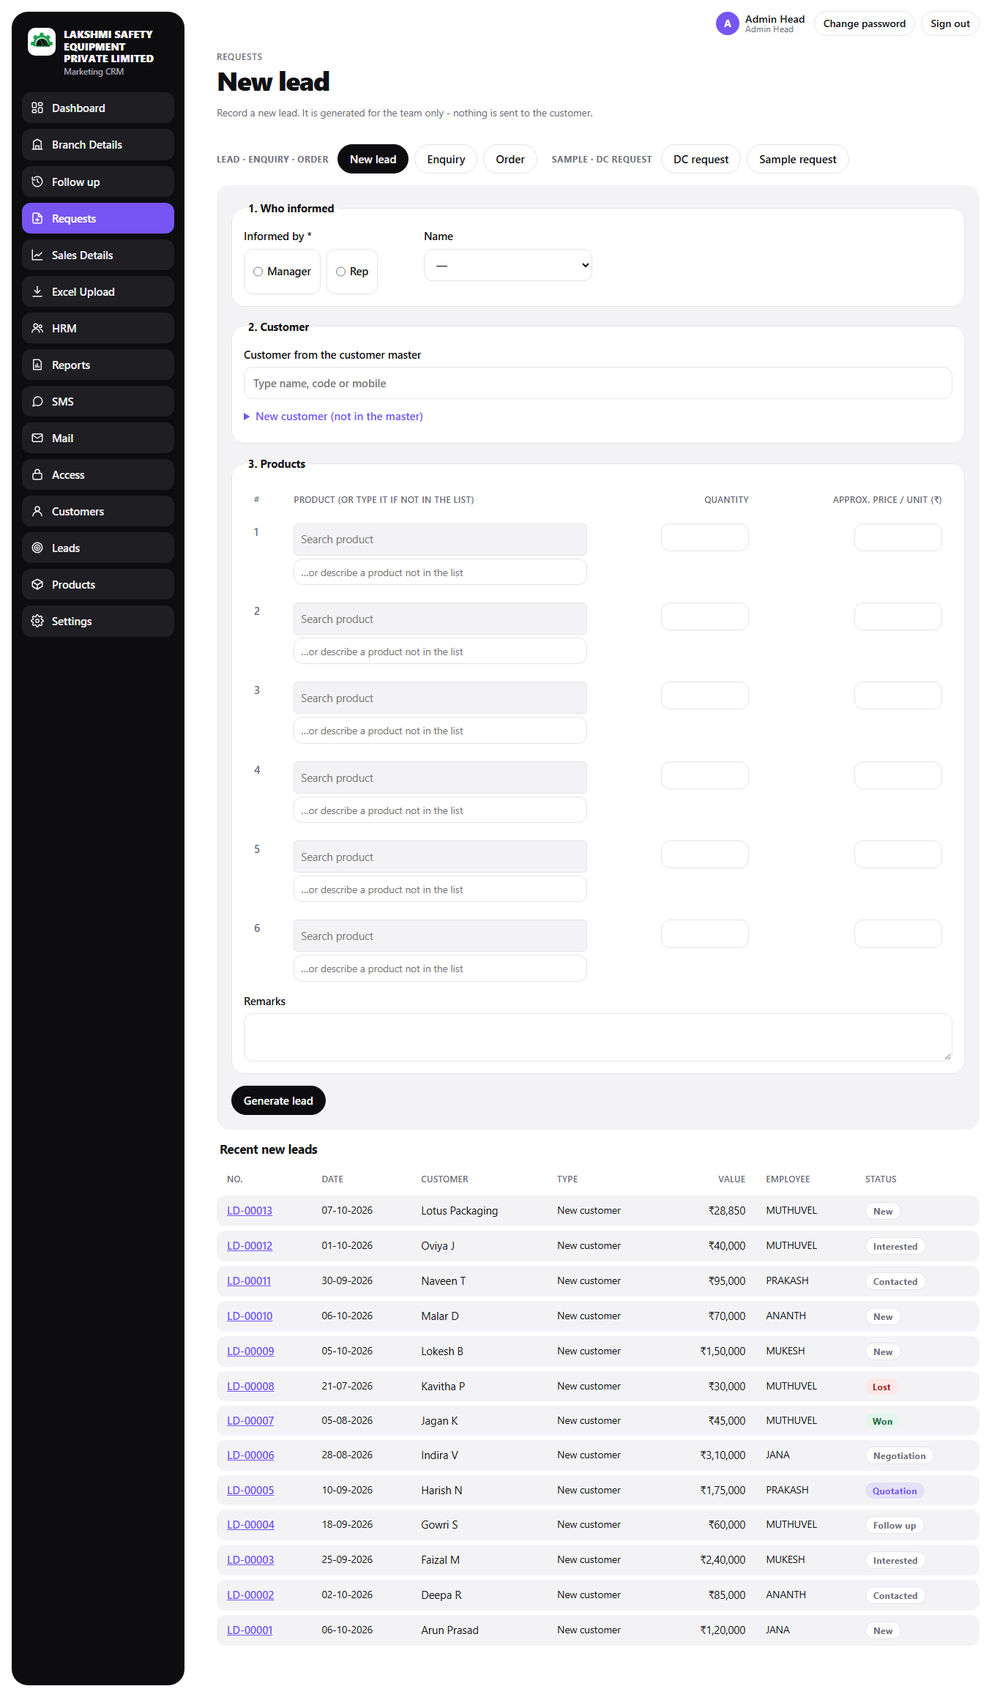
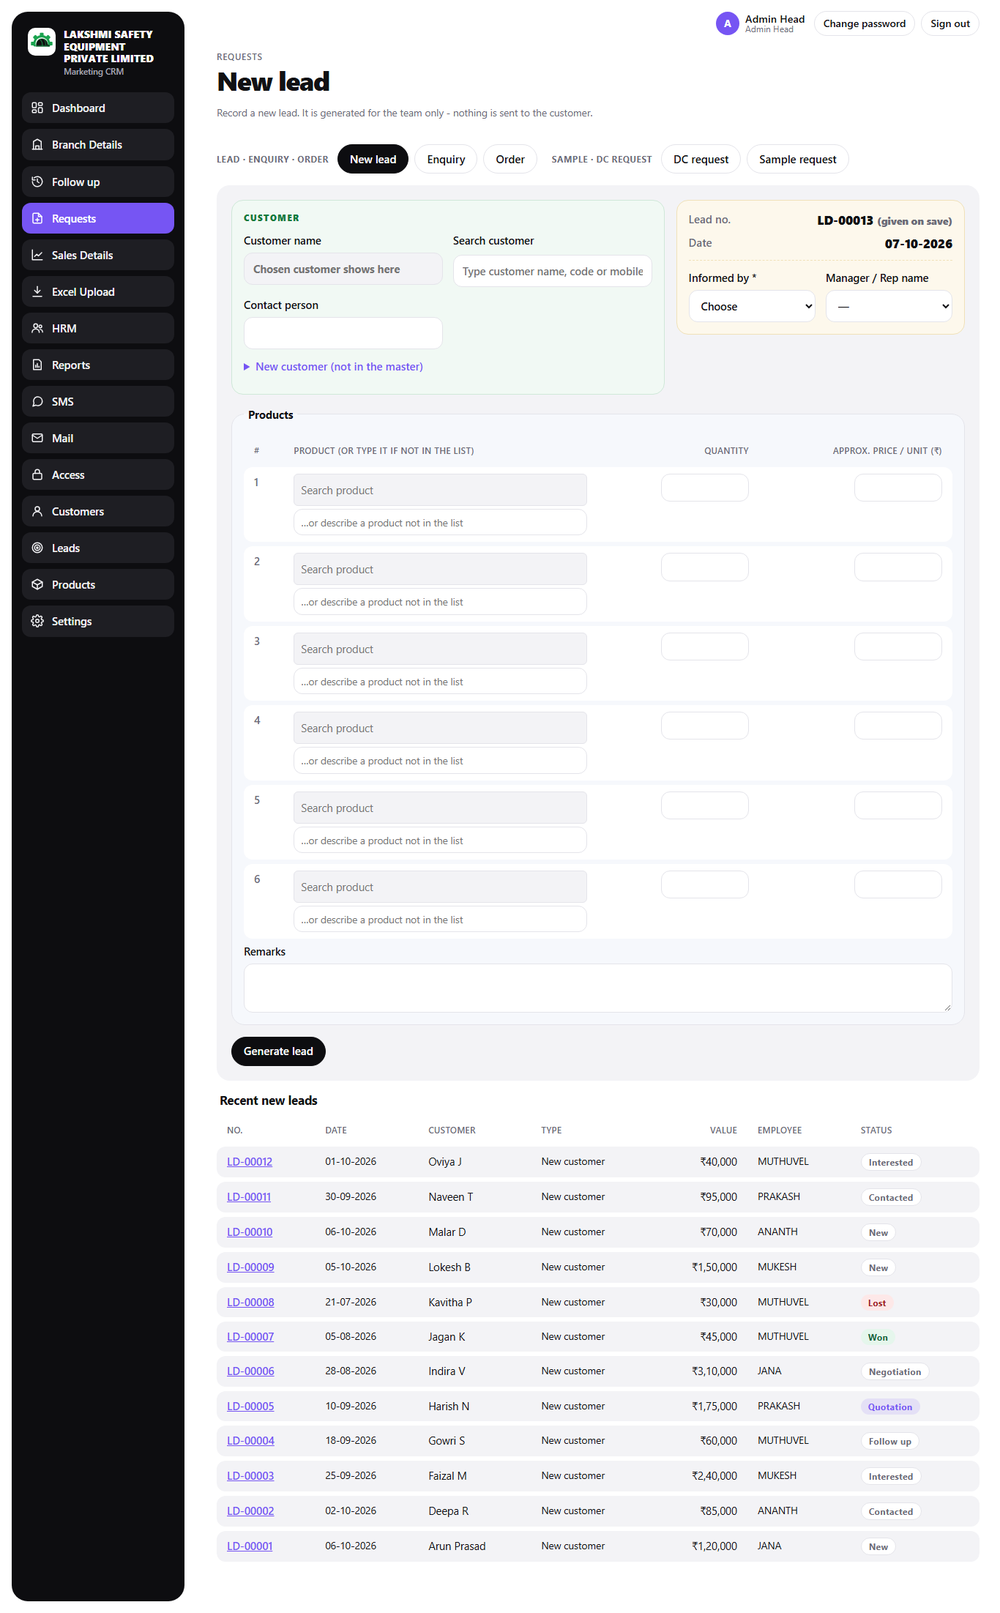
feat: request forms in billing format - customer left, document details right
Order, DC, Sample, New lead and Enquiry: invoice-style header with the
customer (name beside Search customer, new-customer details) on the left in
light green, and the document number (shown before saving), date, Ref (how it
came + reference), informed by and other details on the right in light cream.
Products below. Who-informed name labelled Manager / Rep name.

diff --git a/public/assets/css/app.css b/public/assets/css/app.css
@@ -935,3 +935,27 @@ body.minimal .topbar .brand { display: inline-flex; color: var(--text); font-wei
 .pe-field.has-error input { border-color: var(--fail-fg); }
 .pe-mtd { margin: 10px 0 0; font-size: .85rem; color: var(--muted); }
 @media (max-width: 900px) { .pe-grid { grid-template-columns: 1fr; } }
+
+/* Requests: customer name (left) beside the customer search (right) */
+#cust-name[readonly] { background: var(--surface); font-weight: 700; color: var(--text); }
+
+/* Requests: invoice-style header - customer on the left, document details on the right */
+.inv-head { display: grid; grid-template-columns: minmax(0, 3fr) minmax(0, 2fr); gap: 16px; align-items: start; }
+.inv-box { background: var(--surface-2); border: 1px solid var(--border); border-radius: 16px; padding: 14px 16px 16px; min-width: 0; }
+.inv-title { margin: 0 0 10px; font-size: .78rem; font-weight: 800; text-transform: uppercase; letter-spacing: .07em; color: var(--muted); }
+.inv-fields { display: grid; grid-template-columns: repeat(auto-fill, minmax(200px, 1fr)); gap: 10px 14px; }
+.inv-doc .inv-fields { grid-template-columns: 1fr 1fr; }
+.inv-meta { margin: 0 0 12px; display: grid; gap: 6px; padding-bottom: 10px; border-bottom: 1px dashed var(--border); }
+.inv-meta > div { display: flex; justify-content: space-between; gap: 10px; }
+.inv-meta dt { color: var(--muted); font-weight: 600; }
+.inv-meta dd { margin: 0; font-weight: 800; font-size: 1.05rem; font-variant-numeric: tabular-nums; }
+.inv-doc { box-shadow: inset 4px 0 0 var(--btn-dark); }
+@media (max-width: 900px) { .inv-head { grid-template-columns: 1fr; } .inv-doc .inv-fields { grid-template-columns: 1fr; } }
+/* Billing-style light colours */
+:root { --inv-cust-bg: #f1f9f4; --inv-cust-line: #cfe8d8; --inv-doc-bg: #fdf8ec; --inv-doc-line: #f0e1b8; --inv-lines-bg: #f6f8fc; }
+@media (prefers-color-scheme: dark) { :root:not([data-theme="light"]) { --inv-cust-bg: #142219; --inv-cust-line: #23402d; --inv-doc-bg: #262014; --inv-doc-line: #4a3d1c; --inv-lines-bg: #171a21; } }
+.inv-customer { background: var(--inv-cust-bg); border-color: var(--inv-cust-line); }
+.inv-customer .inv-title { color: #137a3b; }
+.inv-doc { background: var(--inv-doc-bg); border-color: var(--inv-doc-line); box-shadow: none; }
+.inv-doc .inv-meta { border-bottom-color: var(--inv-doc-line); }
+.req-form > fieldset.req-step { background: var(--inv-lines-bg); }

diff --git a/public/assets/js/dashboard.js b/public/assets/js/dashboard.js
@@ -19,6 +19,11 @@
             input.value = item.label;
             close();
             box.dispatchEvent(new CustomEvent('lookup:chosen', { detail: item, bubbles: true }));
+            // Requests: show the chosen customer's name (and code / city / rep) beside the search box
+            var nameEl = document.getElementById(box.getAttribute('data-name-target') || '');
+            var metaEl = document.getElementById(box.getAttribute('data-meta-target') || '');
+            if (nameEl) { nameEl.value = item.label; }
+            if (metaEl) { metaEl.textContent = item.meta || ''; }
         }
         function render() {
             list.innerHTML = '';
@@ -57,6 +62,8 @@
 
         input.addEventListener('input', function () {
             hidden.value = '';                          // typed text is not a selection
+            var nm = document.getElementById(box.getAttribute('data-name-target') || ''); if (nm) { nm.value = ''; }
+            var mt = document.getElementById(box.getAttribute('data-meta-target') || ''); if (mt) { mt.textContent = ''; }
             clearTimeout(timer);
             timer = setTimeout(search, 200);
         });

diff --git a/app/Views/requests/index.php b/app/Views/requests/index.php
@@ -8,6 +8,8 @@
 /** @var list<array<string, mixed>> $recent */
 /** @var bool $canApprove */
 /** @var bool $canNewCustomer */
+/** @var string|null $nextNo */
+$nextNo ??= null;
 use App\Core\Csrf;
 use App\Core\Money;
 use App\Modules\Requests\RequestController as R;
@@ -57,106 +59,89 @@ ob_start();
 <form method="post" action="<?= e(url('requests/' . $type)) ?>" class="card form req-form" novalidate>
     <?= Csrf::field() ?>
 
-    <?php if (in_array($type, ['lead', 'enquiry', 'order'], true)): ?>
-    <fieldset class="req-step">
-        <legend>1. Who informed</legend>
-        <div class="req-row">
-            <div class="field<?= $cls('informed_by') ?>"><span>Informed by *</span>
-                <div class="choice-row">
-                    <?php foreach (['manager' => 'Manager', 'rep' => 'Rep'] as $k => $l): ?>
-                        <label class="choice"><input type="radio" name="informed_by" value="<?= e($k) ?>"<?= $v('informed_by') === $k ? ' checked' : '' ?>> <?= e($l) ?></label>
-                    <?php endforeach; ?>
-                </div><?= $err('informed_by') ?></div>
-            <label class="field<?= $cls('informed_employee_id') ?>"><span>Name</span>
-                <select name="informed_employee_id"><option value="">—</option>
-                    <?php foreach ($employees as $em): ?><option value="<?= e($em['id']) ?>"<?= $v('informed_employee_id') === (string) $em['id'] ? ' selected' : '' ?>><?= e(($em['short_name'] ?: $em['name']) . ' - ' . $em['name']) ?></option><?php endforeach; ?>
-                </select><?= $err('informed_employee_id') ?></label>
-            <?php if ($type === 'enquiry'): ?>
-                <div class="field<?= $cls('enquiry_source') ?>"><span>Enquiry came by *</span>
-                    <div class="choice-row">
-                        <?php foreach (R::SOURCES as $k => $l): ?><label class="choice"><input type="radio" name="enquiry_source" value="<?= e($k) ?>"<?= $v('enquiry_source') === $k ? ' checked' : '' ?>> <?= e($l) ?></label><?php endforeach; ?>
-                    </div><?= $err('enquiry_source') ?></div>
-                <div class="field<?= $cls('lead_type') ?>"><span>Enquiry for *</span>
-                    <div class="choice-row">
-                        <?php foreach (['new_customer' => 'New customer', 'new_product' => 'New product'] as $k => $l): ?><label class="choice"><input type="radio" name="lead_type" value="<?= e($k) ?>"<?= $v('lead_type') === $k ? ' checked' : '' ?>> <?= e($l) ?></label><?php endforeach; ?>
-                    </div><?= $err('lead_type') ?></div>
-            <?php endif; ?>
-            <?php if ($type === 'order'): ?>
-                <div class="field field-wide<?= $cls('reference_type') ?>"><span>Order came by *</span>
-                    <div class="choice-row">
-                        <?php foreach (R::ORDER_REFS as $k => $l): ?><label class="choice"><input type="radio" name="reference_type" value="<?= e($k) ?>"<?= $v('reference_type') === $k ? ' checked' : '' ?>> <?= e($l) ?></label><?php endforeach; ?>
-                    </div><?= $err('reference_type') ?></div>
-                <label class="field<?= $cls('reference_detail') ?>"><span>Reference (PO no. / mail date / caller)</span>
-                    <input type="text" name="reference_detail" value="<?= e($v('reference_detail')) ?>" maxlength="255"><?= $err('reference_detail') ?></label>
-                <label class="field<?= $cls('advance_amount') ?>"><span>Advance amount (₹)</span>
-                    <input type="text" name="advance_amount" value="<?= e($v('advance_amount')) ?>" inputmode="decimal"><?= $err('advance_amount') ?></label>
-            <?php endif; ?>
-        </div>
-    </fieldset>
-    <?php endif; ?>
-
-    <?php if ($type === 'dc'): ?>
-    <fieldset class="req-step">
-        <legend>1. Approval for the DC</legend>
-        <div class="req-row">
-            <div class="field<?= $cls('approval_type') ?>"><span>Approved by *</span>
-                <div class="choice-row">
-                    <?php foreach (R::DC_APPROVALS as $k => $l): ?><label class="choice"><input type="radio" name="approval_type" value="<?= e($k) ?>"<?= $v('approval_type') === $k ? ' checked' : '' ?>> <?= e($l) ?></label><?php endforeach; ?>
-                </div><?= $err('approval_type') ?></div>
-            <label class="field field-wide<?= $cls('approval_reference') ?>"><span>Mail details * (date, from, subject)</span>
-                <input type="text" name="approval_reference" value="<?= e($v('approval_reference')) ?>" maxlength="255" placeholder="e.g. 06-10-2026, purchase@customer.com, 'Please send 10 rolls on DC'"><?= $err('approval_reference') ?></label>
-        </div>
-    </fieldset>
-    <?php elseif ($type === 'sample'): ?>
-    <fieldset class="req-step">
-        <legend>1. Sample type</legend>
-        <div class="req-row">
-            <div class="field<?= $cls('sample_type') ?>"><span>Sample is *</span>
-                <div class="choice-row">
-                    <?php foreach (['returnable' => 'Returnable', 'non_returnable' => 'Non-returnable'] as $k => $l): ?><label class="choice"><input type="radio" name="sample_type" value="<?= e($k) ?>"<?= $v('sample_type') === $k ? ' checked' : '' ?>> <?= e($l) ?></label><?php endforeach; ?>
-                </div><?= $err('sample_type') ?></div>
-            <p class="muted small">Note: a manager must approve the sample before it is given out<?= $canApprove ? ' (your own request is approved at once)' : '' ?>.</p>
-        </div>
-    </fieldset>
-    <?php endif; ?>
-
-    <fieldset class="req-step">
-        <legend>2. Customer</legend>
-        <div class="req-row">
-            <div class="field field-wide<?= $cls('customer_id') ?>"><span>Customer from the customer master</span>
-                <div class="lookup" data-lookup="customers">
-                    <input type="text" class="lookup-input" name="customer_label" value="<?= e($v('customer_label')) ?>" placeholder="Type name, code or mobile" autocomplete="off" aria-label="Customer">
-                    <input type="hidden" name="customer_id" value="<?= e($v('customer_id')) ?>">
-                    <ul class="lookup-list" role="listbox" hidden></ul>
-                </div><?= $err('customer_id') ?></div>
-        </div>
-        <details class="req-new"<?= $v('new_name') !== '' || isset($errors['new_mobile']) || isset($errors['branch_id']) ? ' open' : '' ?>>
-            <summary>New customer (not in the master)<?= $needsMaster ? ($canNewCustomer ? ' - will be added to the customer master' : ' - you cannot add customers; ask for it to be added') : '' ?></summary>
-            <div class="req-row">
-                <label class="field"><span>Customer name</span><input type="text" name="new_name" value="<?= e($v('new_name')) ?>" maxlength="150"></label>
-                <label class="field"><span>Company</span><input type="text" name="new_company" value="<?= e($v('new_company')) ?>" maxlength="150"></label>
+    <?php
+    $sel = static function (string $name, array $options, string $empty) use ($v): string {
+        $h = '<select name="' . e($name) . '"><option value="">' . e($empty) . '</option>';
+        foreach ($options as $k => $l) {
+            $h .= '<option value="' . e($k) . '"' . ($v($name) === (string) $k ? ' selected' : '') . '>' . e($l) . '</option>';
+        }
+        return $h . '</select>';
+    };
+    $docName = ['lead' => 'Lead', 'enquiry' => 'Enquiry', 'order' => 'Order', 'dc' => 'DC', 'sample' => 'Sample'][$type];
+    $df = ['order' => 'order_date', 'dc' => 'dc_date', 'sample' => 'document_date'][$type] ?? null;
+    ?>
+    <div class="inv-head">
+        <!-- Left: customer (like the "Bill to" block of an invoice) -->
+        <section class="inv-box inv-customer" aria-label="Customer">
+            <h3 class="inv-title">Customer</h3>
+            <div class="inv-fields">
+                <label class="field"><span>Customer name</span>
+                    <input type="text" id="cust-name" value="<?= e($v('customer_label')) ?>" readonly placeholder="Chosen customer shows here" tabindex="-1">
+                    <span class="muted small" id="cust-meta"></span>
+                </label>
+                <div class="field<?= $cls('customer_id') ?>"><span>Search customer</span>
+                    <div class="lookup" data-lookup="customers" data-name-target="cust-name" data-meta-target="cust-meta">
+                        <input type="text" class="lookup-input" name="customer_label" value="<?= e($v('customer_label')) ?>" placeholder="Type customer name, code or mobile" autocomplete="off" aria-label="Search customer">
+                        <input type="hidden" name="customer_id" value="<?= e($v('customer_id')) ?>">
+                        <ul class="lookup-list" role="listbox" hidden></ul>
+                    </div><?= $err('customer_id') ?></div>
                 <?php if ($isLead): ?><label class="field"><span>Contact person</span><input type="text" name="contact_person" value="<?= e($v('contact_person')) ?>" maxlength="150"></label><?php endif; ?>
-                <label class="field<?= $cls('new_mobile') ?>"><span>Mobile</span><input type="tel" name="new_mobile" value="<?= e($v('new_mobile')) ?>" maxlength="20"><?= $err('new_mobile') ?></label>
-                <label class="field<?= $cls('new_email') ?>"><span>Email</span><input type="email" name="new_email" value="<?= e($v('new_email')) ?>" maxlength="150"><?= $err('new_email') ?></label>
-                <label class="field"><span>City</span><input type="text" name="new_city" value="<?= e($v('new_city')) ?>" maxlength="80"></label>
-                <label class="field<?= $cls('branch_id') ?>"><span>Branch</span><select name="branch_id"><option value="">Choose</option>
-                    <?php foreach ($branches as $b): ?><option value="<?= e($b['id']) ?>"<?= $v('branch_id') === (string) $b['id'] ? ' selected' : '' ?>><?= e($b['name']) ?></option><?php endforeach; ?></select><?= $err('branch_id') ?></label>
-                <label class="field<?= $cls('employee_id') ?>"><span>Sales employee</span><select name="employee_id"><option value="">Choose</option>
-                    <?php foreach ($employees as $em): if (!$em['is_sales_rep']) { continue; } ?><option value="<?= e($em['id']) ?>"<?= $v('employee_id') === (string) $em['id'] ? ' selected' : '' ?>><?= e(($em['short_name'] ?: $em['name']) . ' - ' . $em['name']) ?></option><?php endforeach; ?></select><?= $err('employee_id') ?></label>
             </div>
-        </details>
-    </fieldset>
+            <details class="req-new"<?= $v('new_name') !== '' || isset($errors['new_mobile']) || isset($errors['branch_id']) ? ' open' : '' ?>>
+                <summary>New customer (not in the master)<?= $needsMaster ? ($canNewCustomer ? ' - will be added to the customer master' : ' - you cannot add customers; ask for it to be added') : '' ?></summary>
+                <div class="inv-fields">
+                    <label class="field"><span>Customer name</span><input type="text" name="new_name" value="<?= e($v('new_name')) ?>" maxlength="150"></label>
+                    <label class="field"><span>Company</span><input type="text" name="new_company" value="<?= e($v('new_company')) ?>" maxlength="150"></label>
+                    <label class="field<?= $cls('new_mobile') ?>"><span>Mobile</span><input type="tel" name="new_mobile" value="<?= e($v('new_mobile')) ?>" maxlength="20"><?= $err('new_mobile') ?></label>
+                    <label class="field<?= $cls('new_email') ?>"><span>Email</span><input type="email" name="new_email" value="<?= e($v('new_email')) ?>" maxlength="150"><?= $err('new_email') ?></label>
+                    <label class="field"><span>City</span><input type="text" name="new_city" value="<?= e($v('new_city')) ?>" maxlength="80"></label>
+                    <label class="field<?= $cls('branch_id') ?>"><span>Branch</span><select name="branch_id"><option value="">Choose</option>
+                        <?php foreach ($branches as $b): ?><option value="<?= e($b['id']) ?>"<?= $v('branch_id') === (string) $b['id'] ? ' selected' : '' ?>><?= e($b['name']) ?></option><?php endforeach; ?></select><?= $err('branch_id') ?></label>
+                    <label class="field<?= $cls('employee_id') ?>"><span>Sales employee</span><select name="employee_id"><option value="">Choose</option>
+                        <?php foreach ($employees as $em): if (!$em['is_sales_rep']) { continue; } ?><option value="<?= e($em['id']) ?>"<?= $v('employee_id') === (string) $em['id'] ? ' selected' : '' ?>><?= e(($em['short_name'] ?: $em['name']) . ' - ' . $em['name']) ?></option><?php endforeach; ?></select><?= $err('employee_id') ?></label>
+                </div>
+            </details>
+        </section>
+
+        <!-- Right: document number, date, reference and other details -->
+        <section class="inv-box inv-doc" aria-label="<?= e($docName) ?> details">
+            <dl class="inv-meta">
+                <div><dt><?= e($docName) ?> no.</dt><dd><?= e($nextNo ?? '—') ?> <span class="muted small">(given on save)</span></dd></div>
+                <?php if ($df === null): ?><div><dt>Date</dt><dd><?= e(date('d-m-Y')) ?></dd></div><?php endif; ?>
+            </dl>
+            <div class="inv-fields">
+                <?php if ($df !== null): ?>
+                    <label class="field<?= $cls($df) ?>"><span>Date *</span><input type="date" name="<?= e($df) ?>" value="<?= e($v($df) ?: date('Y-m-d')) ?>" max="<?= e(date('Y-m-d')) ?>"><?= $err($df) ?></label>
+                <?php endif; ?>
+                <?php if ($type === 'order'): ?>
+                    <label class="field<?= $cls('expected_date') ?>"><span>Expected delivery</span><input type="date" name="expected_date" value="<?= e($v('expected_date')) ?>"><?= $err('expected_date') ?></label>
+                    <label class="field<?= $cls('reference_type') ?>"><span>Ref: order came by *</span><?= $sel('reference_type', R::ORDER_REFS, 'Choose') ?><?= $err('reference_type') ?></label>
+                    <label class="field<?= $cls('reference_detail') ?>"><span>Ref no. (PO no. / mail date / caller)</span><input type="text" name="reference_detail" value="<?= e($v('reference_detail')) ?>" maxlength="255"><?= $err('reference_detail') ?></label>
+                    <label class="field<?= $cls('advance_amount') ?>"><span>Advance amount (₹)</span><input type="text" name="advance_amount" value="<?= e($v('advance_amount')) ?>" inputmode="decimal"><?= $err('advance_amount') ?></label>
+                <?php elseif ($type === 'enquiry'): ?>
+                    <label class="field<?= $cls('enquiry_source') ?>"><span>Ref: enquiry came by *</span><?= $sel('enquiry_source', R::SOURCES, 'Choose') ?><?= $err('enquiry_source') ?></label>
+                    <label class="field<?= $cls('lead_type') ?>"><span>Enquiry for *</span><?= $sel('lead_type', ['new_customer' => 'New customer', 'new_product' => 'New product'], 'Choose') ?><?= $err('lead_type') ?></label>
+                <?php elseif ($type === 'dc'): ?>
+                    <label class="field<?= $cls('approval_type') ?>"><span>Ref: approved by *</span><?= $sel('approval_type', R::DC_APPROVALS, 'Choose') ?><?= $err('approval_type') ?></label>
+                    <label class="field<?= $cls('approval_reference') ?>"><span>Mail details * (date, from, subject)</span><input type="text" name="approval_reference" value="<?= e($v('approval_reference')) ?>" maxlength="255" placeholder="e.g. 06-10-2026, purchase@customer.com"><?= $err('approval_reference') ?></label>
+                    <label class="field<?= $cls('order_no') ?>"><span>Against order no. (optional)</span><input type="text" name="order_no" value="<?= e($v('order_no')) ?>" maxlength="40"><?= $err('order_no') ?></label>
+                <?php elseif ($type === 'sample'): ?>
+                    <label class="field<?= $cls('sample_type') ?>"><span>Sample is *</span><?= $sel('sample_type', ['returnable' => 'Returnable', 'non_returnable' => 'Non-returnable'], 'Choose') ?><?= $err('sample_type') ?></label>
+                    <p class="muted small">A manager must approve the sample before it is given out<?= $canApprove ? ' (your own request is approved at once)' : '' ?>.</p>
+                <?php endif; ?>
+                <?php if (in_array($type, ['lead', 'enquiry', 'order'], true)): ?>
+                    <label class="field<?= $cls('informed_by') ?>"><span>Informed by *</span><?= $sel('informed_by', ['manager' => 'Manager', 'rep' => 'Rep'], 'Choose') ?><?= $err('informed_by') ?></label>
+                    <label class="field<?= $cls('informed_employee_id') ?>"><span>Manager / Rep name</span>
+                        <select name="informed_employee_id"><option value="">—</option>
+                            <?php foreach ($employees as $em): ?><option value="<?= e($em['id']) ?>"<?= $v('informed_employee_id') === (string) $em['id'] ? ' selected' : '' ?>><?= e(($em['short_name'] ?: $em['name']) . ' - ' . $em['name']) ?></option><?php endforeach; ?>
+                        </select><?= $err('informed_employee_id') ?></label>
+                <?php endif; ?>
+            </div>
+        </section>
+    </div>
 
     <fieldset class="req-step">
-        <legend>3. <?= $type === 'order' ? 'Order details' : ($type === 'dc' ? 'DC details' : ($type === 'sample' ? 'Sample details' : 'Products')) ?></legend>
-        <?php if (in_array($type, ['order', 'dc', 'sample'], true)): ?>
-        <div class="req-row">
-            <?php $df = ['order' => 'order_date', 'dc' => 'dc_date', 'sample' => 'document_date'][$type]; ?>
-            <label class="field<?= $cls($df) ?>"><span>Date *</span><input type="date" name="<?= e($df) ?>" value="<?= e($v($df) ?: date('Y-m-d')) ?>" max="<?= e(date('Y-m-d')) ?>"><?= $err($df) ?></label>
-            <?php if ($type === 'order'): ?><label class="field<?= $cls('expected_date') ?>"><span>Expected delivery</span><input type="date" name="expected_date" value="<?= e($v('expected_date')) ?>"><?= $err('expected_date') ?></label><?php endif; ?>
-            <?php if ($type === 'dc'): ?><label class="field<?= $cls('order_no') ?>"><span>Against order no. (optional)</span><input type="text" name="order_no" value="<?= e($v('order_no')) ?>" maxlength="40"><?= $err('order_no') ?></label><?php endif; ?>
-        </div>
-        <?php endif; ?>
+        <legend>Products</legend>
         <div class="table-scroll">
         <table class="table compact req-lines">
             <thead><tr><th>#</th><th>Product<?= $isLead ? ' (or type it if not in the list)' : '' ?></th><th class="right">Quantity</th><th class="right"><?= e($priceHead) ?></th></tr></thead>

diff --git a/app/Core/NumberSequence.php b/app/Core/NumberSequence.php
@@ -14,6 +14,13 @@ use RuntimeException;
 final class NumberSequence
 {
     /** Must be called inside Database::transaction() so the row lock is held until commit. */
+    /** The number the next save will get (not reserved - another save may take it first). */
+    public static function peek(string $name): ?string
+    {
+        $row = Database::fetch('SELECT prefix, next_number, padding FROM number_sequences WHERE name = ?', [$name]);
+        return $row ? $row['prefix'] . str_pad((string) $row['next_number'], (int) $row['padding'], '0', STR_PAD_LEFT) : null;
+    }
+
     public static function next(string $name): string
     {
         $pdo = Database::connection();

diff --git a/app/Modules/Requests/RequestController.php b/app/Modules/Requests/RequestController.php
@@ -68,6 +68,7 @@ final class RequestController
             'recent'    => self::recent($type, $user),
             'canApprove'=> Gate::allows('samples.approve', $user),
             'canNewCustomer' => Gate::allows('customers.add', $user),
+            'nextNo'    => NumberSequence::peek($type === 'enquiry' ? 'enquiry' : $type),
             'scripts'   => ['dashboard.js'],
         ]);
     }
